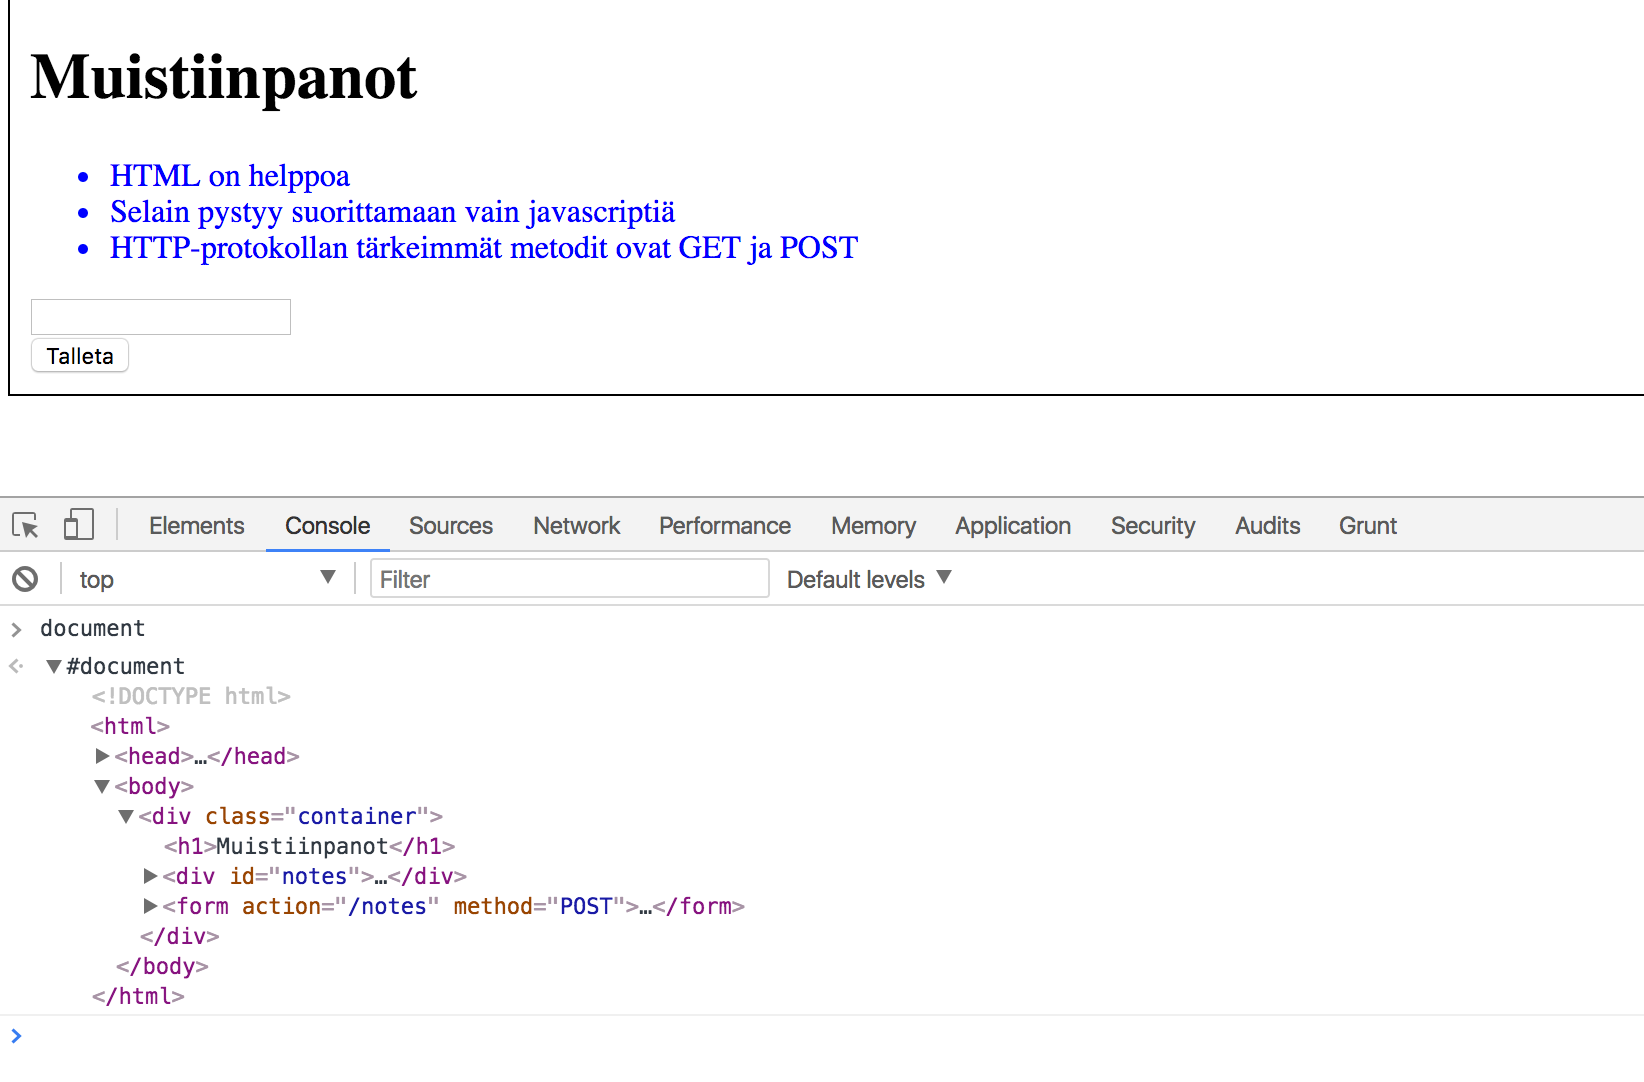
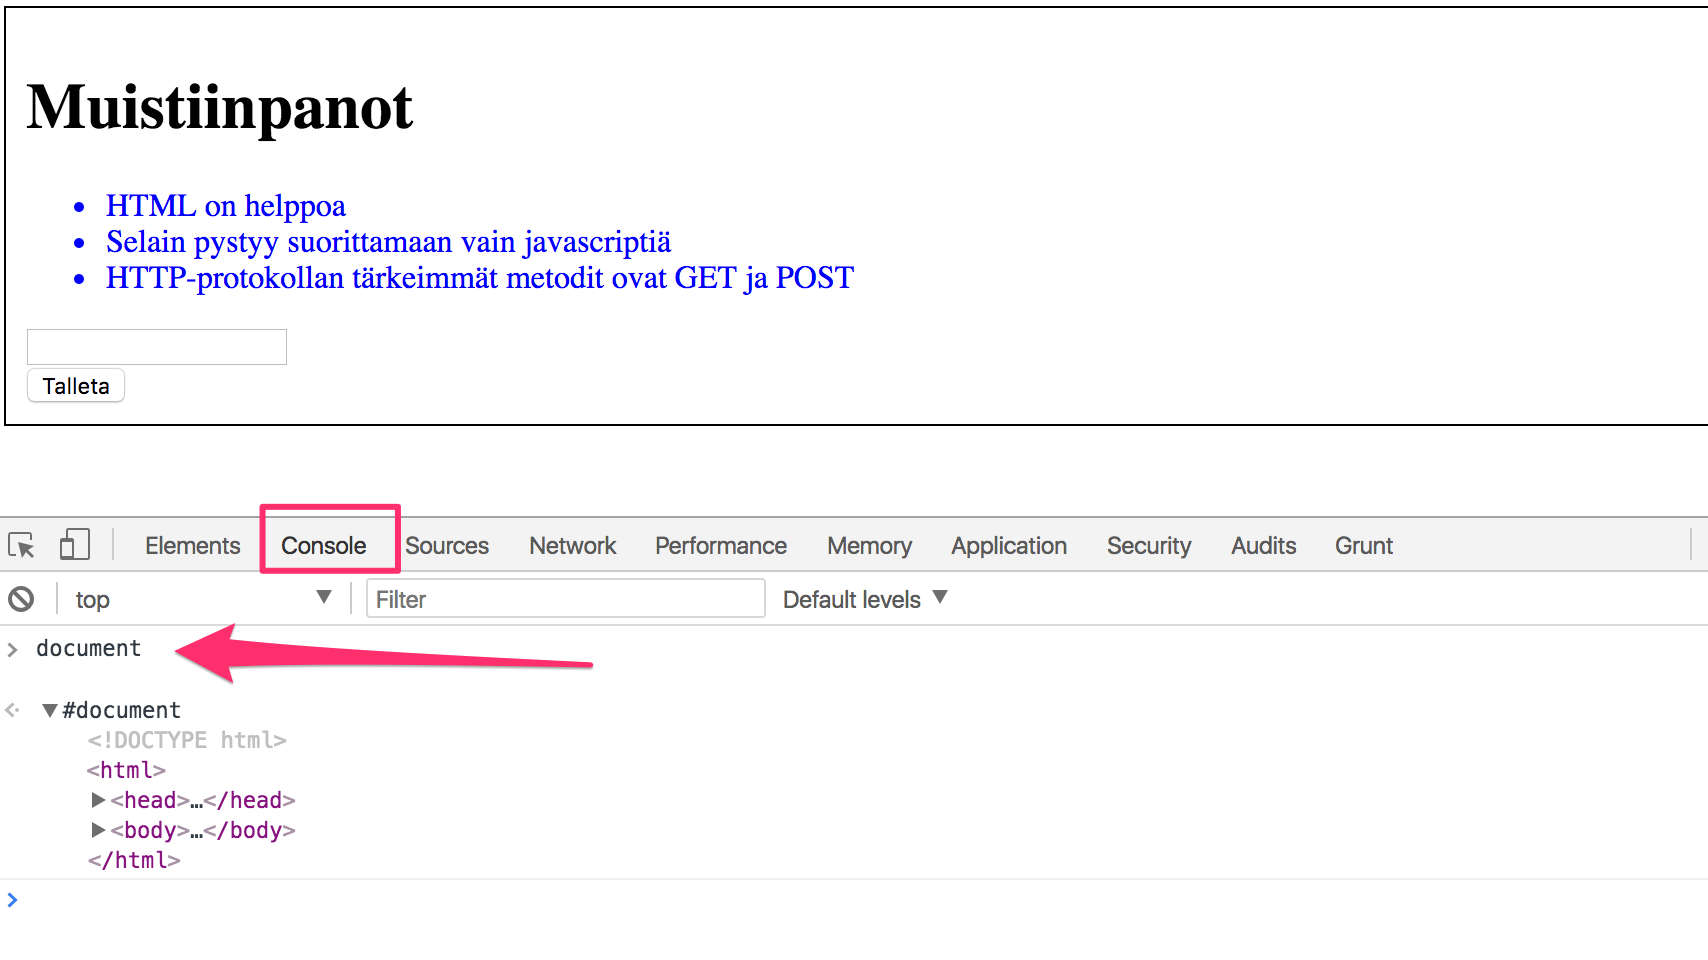
lomake ja post

Changed region(s): [[0.0, 0.0, 1.0, 0.9375], [0.9617, 0.5312, 0.9927, 0.5625], [0.1551, 0.3438, 0.1861, 0.375]]

diff --git a/_site/viikko1/index.html b/_site/viikko1/index.html
@@ -91,7 +91,10 @@
 
 <h2 id="web-sovelluksen-toimintaperiaatteita">web-sovelluksen toimintaperiaatteita</h2>
 
-<p>Tällä kurssilla suositellaan <a href="https://www.google.fi/chrome/browser/desktop/index.html">Chrome</a>-selaimen käyttöä sillä se tarjoaa parhaan välineistön web-sovelluskehitystä ajatellen.</p>
+<p>Tällä kurssilla suositellaan Chrome-selaimen käyttöä sillä se tarjoaa parhaan välineistön web-sovelluskehitystä ajatellen.</p>
+
+<p>Erään Chromessa olevan, hieman sovelluskehitystä haittaavan bugin takia kaikkein suositeltavinta on Chromen ns.
+<a href="https://www.google.fi/chrome/browser/canary.html">canary-version</a> käyttäminen.</p>
 
 <p>Avataan selaimella osoitteessa <a href="https://fullstack-exampleapp.herokuapp.com/">https://fullstack-exampleapp.herokuapp.com/</a> oleva esimerkkisovellus.</p>
 
@@ -174,7 +177,7 @@ Pidä selaimen developer-konsoli koko ajan auki
 
 <p>Perinteisissä websovelluksissa selain on “tyhmä”, se ainoastaan pyytää palvelimelta  HTML-muodossa olevia sisältöjä, kaikki sovelluslogiikka on palvelimessa. Palvelin voi olla tehty esim. kurssin <a href="https://courses.helsinki.fi/fi/tkt21007/119558639">Web-palvelinohjelmointi, Java</a> tapaan Springillä, kuten <a href="http://tsoha.github.io/#/johdanto#top">Tietokantasovelluksessa</a> PHP:llä. Esimerkissä on käytetty Node.js:n <a href="https://expressjs.com/">Express</a>-sovelluskehystä. Tulemme käyttämään kurssilla Node.js:ää ja Expresiä web-palvelien toteuttamiseen.</p>
 
-<h3 id="selainpuolen-logiikka">selainpuolen logiikka</h3>
+<h3 id="selaimessa-suoritettava-sovelluslogiikka">selaimessa suoritettava sovelluslogiikka</h3>
 
 <p>Pidä konsoli edelleen auki. Tyhjennä konsoloin näkymä painamalla vasemmalla olevaa ∅-symbolia.</p>
 
@@ -350,7 +353,7 @@ html
 
 <p>Sama puumaisuus on nähtävissä konsolin välilehdellä <em>Elements</em></p>
 
-<p><img src="http://localhost:4000/assets/1/12.png" alt="" /></p>
+<p><img src="http://localhost:4000/assets/1/13.png" alt="" /></p>
 
 <p>Selainten toiminta perustuu ideaan esittää html-elementit puurakenteena.</p>
 
@@ -360,7 +363,7 @@ html
 
 <p>HTML-dokumentin</p>
 
-<p><img src="http://localhost:4000/assets/1/13.png" alt="" /></p>
+<p><img src="http://localhost:4000/assets/1/13b.png" alt="" /></p>
 
 <p>DOM:a havainnollistava kuva Wikipedian sivulta:</p>
 
@@ -374,7 +377,7 @@ html
 
 <p>Voimme suorittaa konsolista käsin DOM:in avulla erilaisia operaatioita selaimessa näytettävälle web-sivulle.</p>
 
-<p>Lisätään sivulle uusi muistiinpano suoraan konsolista.</p>
+<p>Lisätään nyt sivulle uusi muistiinpano suoraan konsolista.</p>
 
 <p>Haetaan ensin sivulta muistiinpanojen lista, eli sivun ul-elementeistä ensimmäinen:</p>
 <div class="language-js highlighter-rouge"><div class="highlight"><pre class="highlight"><code><span class="nx">lista</span> <span class="o">=</span> <span class="nb">document</span><span class="p">.</span><span class="nx">getElementsByTagName</span><span class="p">(</span><span class="s1">'ul'</span><span class="p">)[</span><span class="mi">0</span><span class="p">]</span>
@@ -438,7 +441,63 @@ html
 
 <h3 id="lomake-ja-http-post">lomake ja HTTP POST</h3>
 
+<p>Tutkitaan seuraavaksi sitä, miten uusien muistiinpanojen luominen tapahtuu. Tätä varten muistiinpanojen sivu sisältää lomakkeen eli <a href="https://developer.mozilla.org/en-US/docs/Learn/HTML/Forms/Your_first_HTML_form">formin</a>.</p>
+
+<p><img src="http://localhost:4000/assets/1/18.png" alt="" /></p>
+
+<p>Kun lomakkeen painiketta painetaan, lähettää selain lomakkeelle syötetyn datan palvelimele. Avataan <em>Network</em>-tabi ja katsotaan miltä lomakkeen lähettäminen näyttää:</p>
+
+<p><img src="http://localhost:4000/assets/1/19.png" alt="" /></p>
+
+<p>Lomakkeen lähettäminen aiheuttaa yllättäen yhteensä viisi HTTP-pyyntöä. Näistä ensimmäinen vastaa lomakkeen lähetystapahtumaa. Tarkennetaan siihen:</p>
+
+<p><img src="http://localhost:4000/assets/1/20.png" alt="" /></p>
+
+<p>Kyseessä on siis HTTP POST -pyyntö ja se on tehty palvelimen osoitteeseen <em>new_note</em>. Palvelin vastaa pyyntöön HTTP-statuskoodilla 302. Kyseessä on ns. uudelleenohjauspyyntö, minkä avulla palvelin kehoittaa selainta tekemään automaattisesti uuden HTTP GET -pyynnön headerin <em>Location</em> kertomaan paikkaan, eli osoitteeseen <em>notes</em>.</p>
+
+<p>Selain siis lataa uudelleen muistiinpanojen sivun. Sivunlataus saa aikaan myös kolme muuta HTTP-pyyntöä: tyylitiedostojen, javascriptin ja muistiinpanojen raakadatan lataamisen.</p>
+
+<p>Network-välilehti näyttää myös lomakkeen mukana lähetetyn datan:</p>
+
+<p><img src="http://localhost:4000/assets/1/21.png" alt="" /></p>
+
+<p>Jos käytät normaalia Chrome-selainta, ei konsoli ehkä näytä lähetettävää dataa. Kyseessä on eräissä Chromen versioissa oleva <a href="https://bugs.chromium.org/p/chromium/issues/detail?id=766715">bugi</a>. Bugi on korjattu Chromen <a href="https://www.google.fi/chrome/browser/canary.html">canary-versiossa</a> ja tulee korjaantumaan aikanaan myös “normaaliin” versioon.</p>
+
+<p>Lomakkeen lähettäminen tapahtuu HTTP POST -pyyntönä ja osoitteeseen <em>new_note</em> form-tagiin määriteltyjen attribuuttien <em>action</em> ja <em>method</em> ansiosta:</p>
+
+<p><img src="http://localhost:4000/assets/1/22.png" alt="" /></p>
+
+<p>POST-pyynnöstä huolehtiva palvelimen koodi on yksinkertainen:</p>
+
+<div class="language-js highlighter-rouge"><div class="highlight"><pre class="highlight"><code><span class="nx">app</span><span class="p">.</span><span class="nx">post</span><span class="p">(</span><span class="s1">'/new_note'</span><span class="p">,</span> <span class="p">(</span><span class="nx">req</span><span class="p">,</span> <span class="nx">res</span><span class="p">)</span> <span class="o">=&gt;</span> <span class="p">{</span>
+  <span class="nx">notes</span><span class="p">.</span><span class="nx">push</span><span class="p">(</span> <span class="p">{</span> 
+    <span class="na">content</span><span class="p">:</span> <span class="nx">req</span><span class="p">.</span><span class="nx">body</span><span class="p">.</span><span class="nx">note</span><span class="p">,</span>
+    <span class="na">date</span><span class="p">:</span> <span class="k">new</span> <span class="nb">Date</span><span class="p">()</span>
+  <span class="p">})</span>
+
+  <span class="k">return</span> <span class="nx">res</span><span class="p">.</span><span class="nx">redirect</span><span class="p">(</span><span class="s1">'/notes'</span><span class="p">)</span>
+<span class="p">})</span>
+</code></pre></div></div>
+
+<p>POST-pyyntöihin liitettävä data lähetetään pyynnön mukana “runkona” eli <a href="https://developer.mozilla.org/en-US/docs/Web/HTTP/Methods/POST">bodynä</a>. Palvelin saa POST-pyynnön datan pyytämällä sitä pyyntöä vastaavan olion <em>req</em> kentästä <em>req.body</em>.</p>
+
+<p>Tekstikenttään kirjoitettu data on avaimen <em>notes</em> alla, eli palvelin viittaa siihen <em>req.body.note</em>.</p>
+
+<p>Palvelin luo uutta muistiinpano vastaavan olion ja laittaa sen muistiinpanot sisältävään taulukkoon:</p>
+
+<div class="language-js highlighter-rouge"><div class="highlight"><pre class="highlight"><code>  <span class="nx">notes</span><span class="p">.</span><span class="nx">push</span><span class="p">(</span> <span class="p">{</span> 
+    <span class="na">content</span><span class="p">:</span> <span class="nx">req</span><span class="p">.</span><span class="nx">body</span><span class="p">.</span><span class="nx">note</span><span class="p">,</span>
+    <span class="na">date</span><span class="p">:</span> <span class="k">new</span> <span class="nb">Date</span><span class="p">()</span>
+  <span class="p">})</span>
+</code></pre></div></div>
+
+<p>Muistiinpano-olioilla on siis kaksi kenttää, varsinaisen sisällön kuvaava <em>content</em> ja luomishetken kertova <em>data</em>.</p>
+
+<p>Palvelin ei talleta muistiinpanoja tietokantaan, joten uudet muistiinpanot katoavat aina Herokun uudelleenkäynnistäessä palvelun.</p>
+
 <h2 id="single-page-app">single page app</h2>
+
+<h2 id="full-stack">full stack</h2>
 
 <h2 id="react">react</h2>
 
